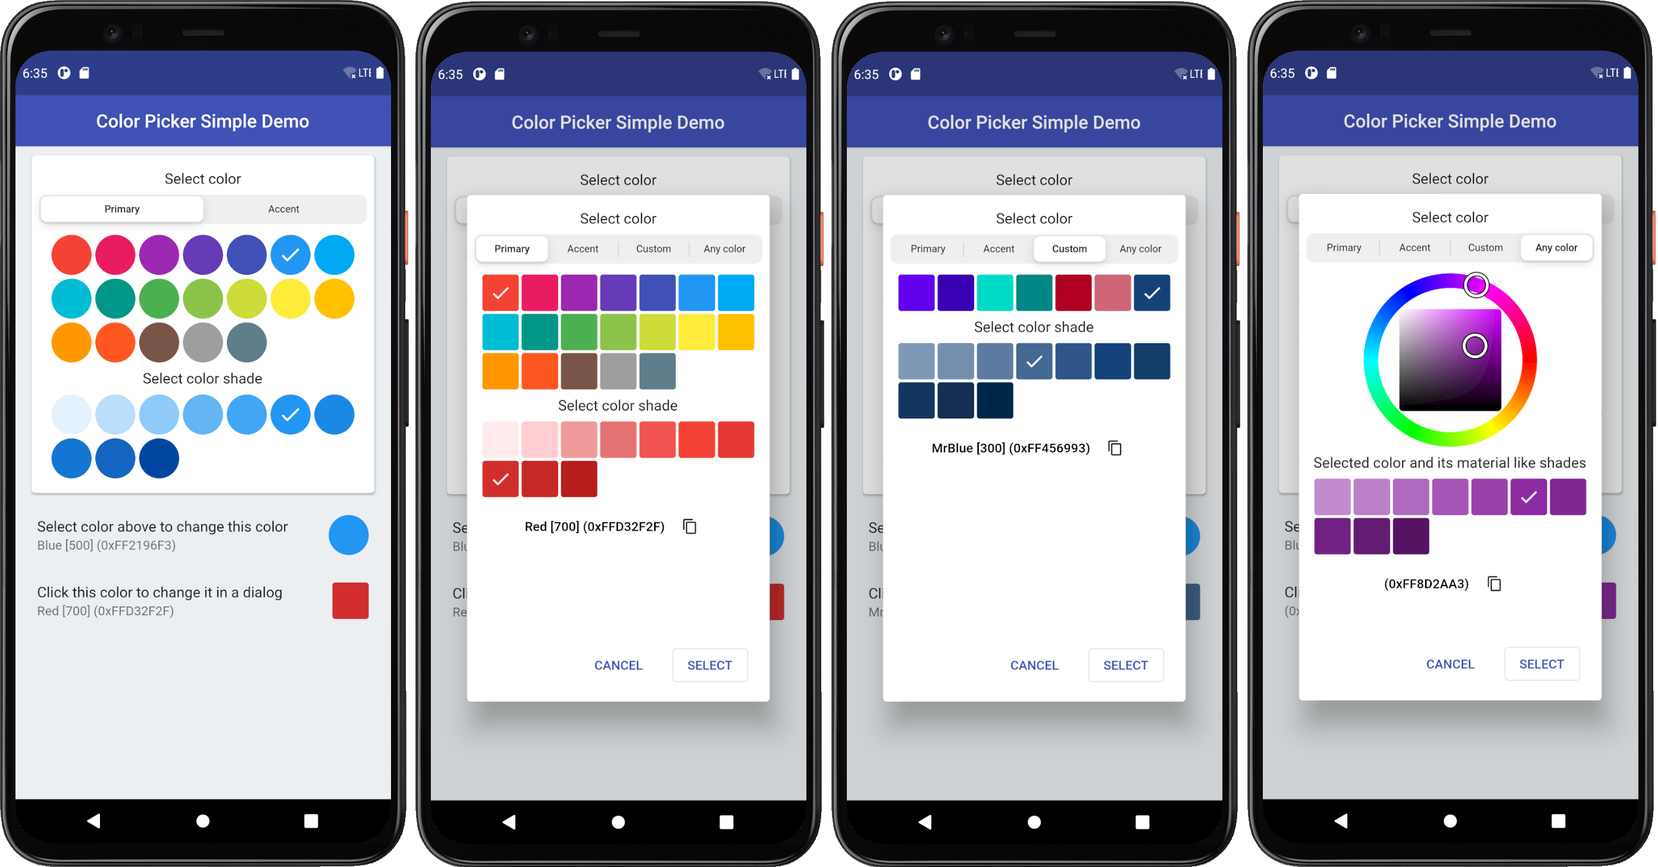
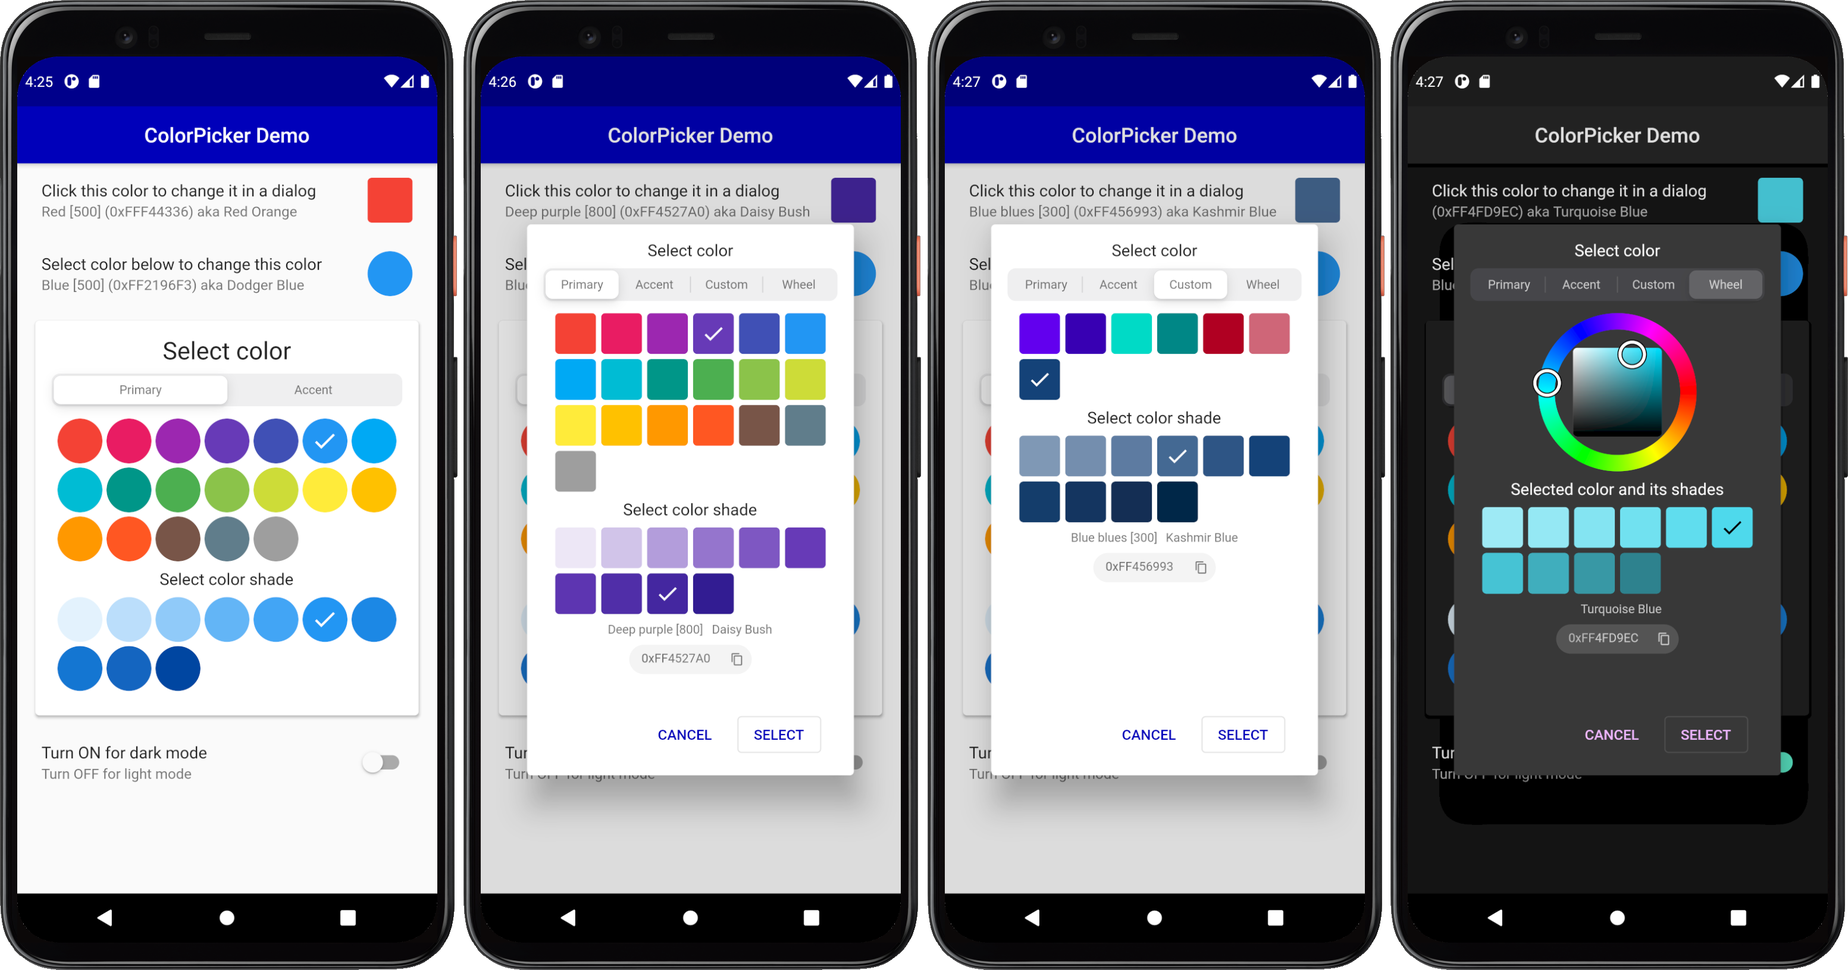
Updates the example, documentation and screen shots.

diff --git a/example/lib/main.dart b/example/lib/main.dart
@@ -64,7 +64,7 @@ class _ColorPickerPageState extends State<ColorPickerPage> {
   static const Color guideErrorDark = Color(0xFFCF6679);
   static const Color blueBlues = Color(0xFF174378);
 
-  // Make a custom color swatch to name map from the above custom colors.
+  // Make a custom ColorSwatch to name map from the above custom colors.
   final Map<ColorSwatch<Object>, String> colorsNameMap =
       <ColorSwatch<Object>, String>{
     ColorTools.createPrimarySwatch(guidePrimary): 'Guide Purple',
@@ -97,6 +97,44 @@ class _ColorPickerPageState extends State<ColorPickerPage> {
           child: Column(
             crossAxisAlignment: CrossAxisAlignment.start,
             children: <Widget>[
+              // Pick color in a dialog.
+              ListTile(
+                title: const Text('Click this color to change it in a dialog'),
+                subtitle: Text(
+                  '${ColorTools.materialNameAndCode(dialogPickerColor, colorSwatchNameMap: colorsNameMap)} '
+                  'aka ${ColorTools.nameThatColor(dialogPickerColor)}',
+                ),
+                trailing: ColorIndicator(
+                  width: 44,
+                  height: 44,
+                  borderRadius: 4,
+                  color: dialogPickerColor,
+                  onSelect: () async {
+                    final Color colorBeforeDialog = dialogPickerColor;
+                    if (!(await colorPickerDialog())) {
+                      setState(() {
+                        dialogPickerColor = colorBeforeDialog;
+                      });
+                    }
+                  },
+                ),
+              ),
+
+              // Show the selected color.
+              ListTile(
+                title: const Text('Select color below to change this color'),
+                subtitle:
+                    Text('${ColorTools.materialNameAndCode(screenPickerColor)} '
+                        'aka ${ColorTools.nameThatColor(screenPickerColor)}'),
+                trailing: ColorIndicator(
+                  width: 44,
+                  height: 44,
+                  borderRadius: 22,
+                  color: screenPickerColor,
+                ),
+              ),
+
+              // Show the color picker in sized box in a raised card.
               SizedBox(
                 width: double.infinity,
                 child: Padding(
@@ -120,43 +158,6 @@ class _ColorPickerPageState extends State<ColorPickerPage> {
                       ),
                     ),
                   ),
-                ),
-              ),
-
-              // Show the selected color.
-              ListTile(
-                title: const Text('Select color above to change this color'),
-                subtitle:
-                    Text('${ColorTools.materialNameAndCode(screenPickerColor)} '
-                        'aka ${ColorTools.nameThatColor(screenPickerColor)}'),
-                trailing: ColorIndicator(
-                  width: 44,
-                  height: 44,
-                  borderRadius: 22,
-                  color: screenPickerColor,
-                ),
-              ),
-
-              // Pick color in a dialog.
-              ListTile(
-                title: const Text('Click this color to change it in a dialog'),
-                subtitle: Text(
-                  '${ColorTools.materialNameAndCode(dialogPickerColor, colorSwatchNameMap: colorsNameMap)} '
-                  'aka ${ColorTools.nameThatColor(dialogPickerColor)}',
-                ),
-                trailing: ColorIndicator(
-                  width: 44,
-                  height: 44,
-                  borderRadius: 4,
-                  color: dialogPickerColor,
-                  onSelect: () async {
-                    final Color colorBeforeDialog = dialogPickerColor;
-                    if (!(await colorPickerDialog())) {
-                      setState(() {
-                        dialogPickerColor = colorBeforeDialog;
-                      });
-                    }
-                  },
                 ),
               ),
 
@@ -187,9 +188,9 @@ class _ColorPickerPageState extends State<ColorPickerPage> {
       width: 40,
       height: 40,
       borderRadius: 4,
-      spacing: 6,
-      runSpacing: 6,
-      wheelDiameter: 160,
+      spacing: 5,
+      runSpacing: 5,
+      wheelDiameter: 155,
       heading: Text(
         'Select color',
         style: Theme.of(context).textTheme.subtitle1,
@@ -199,7 +200,7 @@ class _ColorPickerPageState extends State<ColorPickerPage> {
         style: Theme.of(context).textTheme.subtitle1,
       ),
       wheelSubheading: Text(
-        'Selected color and its material like shades',
+        'Selected color and its shades',
         style: Theme.of(context).textTheme.subtitle1,
       ),
       showMaterialName: true,
@@ -220,7 +221,7 @@ class _ColorPickerPageState extends State<ColorPickerPage> {
     ).showPickerDialog(
       context,
       constraints:
-          const BoxConstraints(minHeight: 450, minWidth: 400, maxWidth: 400),
+          const BoxConstraints(minHeight: 460, minWidth: 300, maxWidth: 320),
     );
   }
 }

diff --git a/test/flex_color_indicator_test.dart b/test/flex_color_indicator_test.dart
@@ -1,0 +1,5 @@
+import 'package:flutter/material.dart';
+import 'package:test/test.dart';
+import 'package:flex_color_picker/flex_color_picker.dart';
+
+void main() {}

diff --git a/README.md b/README.md
@@ -15,7 +15,7 @@ Flex ColorPicker is a customizable color picker for Flutter. The `ColorPicker` c
 
 When you show more than one color picker, a segmented sliding control allows you to select which one to use. You can configure the `ColorPicker` to include any of the above color pickers. Showing pickers 1 and 2, together with picker 3 is not very useful, they are available as optional ways of showing and selecting the standard Material primary and accent colors.
 
-Give the color picker a heading and a subheading for the color shades, typically Text widgets with appropriate style. Decide if the Material shades can be selected or not and if the selected color names and values are visible in the picker. If the color HEX RGB code is visible, the picker includes a button that allows you to copy the selected color code to the clipboard.
+Give the `ColorPicker` a heading and a subheading for the color shades, typically Text widgets with appropriate style. Decide if the Material shades can be selected or not and if the selected color names and code are visible in the picker. If the color HEX RGB code is visible, the picker also includes a button that allows you to copy the selected color's code to the clipboard. On the wheel picker you can also enter a HEX RGB for the color to be selected.
 
 The shape, size and spacing of the color picker items can be modified. There is a built-in dialog that can be used to show and use the `ColorPicker` in a pre-made dialog. You can of course also make your own dialog and just use the color picker widget in your custom dialog.
 
@@ -73,7 +73,7 @@ void initState() {
 }
 ```
 
-Add the `ColorPicker` to the build method, could for example be in a `ListView` or `Column`. Give it the defined starting color, a `heading` and `subHeading`, plus the required `onColorChanged` callback function. Use the color from the callback in a `setState()` to modify the `screenPickerColor` to the color value returned by the callback. The callback in the ColorPicker is called whenever you select a new color in the `ColorPicker`.
+Add the `ColorPicker` to the build method, could for example be in a `ListView` or `Column`. Give it the defined starting color, a `heading` and `subHeading`, plus the required `onColorChanged` callback function. Use the color from the callback in a `setState()` to modify the `screenPickerColor` to the color  returned by the callback. The callback in the ColorPicker is called whenever you select a new color in the `ColorPicker`.
 
 ```dart
 ColorPicker(
@@ -109,7 +109,7 @@ ColorPicker(
 ),
 ```
 
-You can use same the `ColorIndicator` Widget that the `ColorPicker` uses internally as a color indicator. Here we use it in a `ListTile` as its trailing property to show the selected color. The `ColorPicker` also includes `ColorTools`, a set of static helper functions, that you can use to display names of the standard material colors, and their shade index value, as well as an optional Flutter style Hex color code. Below we use `ColorTools.materialNameAndCode` in a `ListTile` `subtitle` property to describe the selected color. We show its Material color name and index and Flutter style HEX code. We also use `ColorTools.nameThatColor` function, that will name any provided color based on the closest matching color from a list consisting of 1566 named colors.
+You can use same the `ColorIndicator` Widget that the `ColorPicker` uses internally as a color indicator. Here we use it in a `ListTile`, that we add above the `ColorPicker` and use the `ColorIndicator` as its trailing property to show the selected color. The `ColorPicker` also includes `ColorTools`, a set of helper functions, that you can use to display names of the standard material colors, and their shade index value, as well as an optional Flutter style Hex color code. Below we use `ColorTools.materialNameAndCode` in a `ListTile` `subtitle` property to describe the selected color. We show its Material color name and index and Flutter style HEX code. We also use `ColorTools.nameThatColor` function, that will name any color based on the closest matching color from a list consisting of 1566 colors and names.
 
 ```dart
 ListTile(
@@ -131,11 +131,11 @@ This gives us round color pick items and an indicator for the selected color:
 
 ## ColorPicker as a Dialog
 
-A common use case for a color picker is to show a color selection widget and allow the user to select a new color in a dialog. The `ColorPicker` comes with a built-in dialog that can be used for this. Alternatively you can use the `ColorPicker` widget to build your own dialog based on it.
+A common use case for a color picker is to show a color selection widget and allow users to select a new color in a dialog. The `ColorPicker` comes with a built-in dialog that can be used for this. Alternatively you can just use the `ColorPicker` widget and include it in your own dialog.
 
-For the dialog example we will show all the built in picker color selection options, except the combined primary and accent colors picker, and the black and white shades' picker. We add some custom colors for the **Custom** colors section of the `ColorPicker`.
+For the dialog example we will show all the built in picker color selection options, except the combined primary and accent colors picker, and the black and white shades' picker. We will also add some custom colors for the **Custom** colors section of the `ColorPicker`.
 
-First we define our custom colors and from our single color definitions we create primary and accent color swatches, by using `ColorTools.createPrimarySwatch` or `ColorTools.createAccentSwatch` for accent color swatches. We add these color swatches to a `ColorSwatch` Map, that we map to our own custom names for our custom color swatches. You don't have to use the `ColorTools` to create the color swatches from a given single color, you can just as well define and use your own custom hand tuned `ColorSwatch` swatches. The functions are convenient helpers that can make Material like color swatches from a single color.
+First we define our custom colors and from our color definitions we create primary and accent color swatches by using `ColorTools.createPrimarySwatch` or `ColorTools.createAccentSwatch` for accent color swatches. We add these color swatches as keys to a `ColorSwatch` `Map`, that we map to our own custom `String` name values for our custom color swatches. You don't have to use the `ColorTools` functions to create the color swatches from a color, you can just as well define and use your own custom hand tuned `ColorSwatch` swatches. The functions are just convenient helpers that can be used to make Material like color swatches from a single color.
 
 ```dart
   // Define custom colors. The 'guide' color values are from
@@ -148,7 +148,7 @@ First we define our custom colors and from our single color definitions we creat
   static const Color guideErrorDark = Color(0xFFCF6679);
   static const Color blueBlues = Color(0xFF174378);
 
-  // Make a custom color swatch to name map from the above custom colors.
+  // Make a custom ColorSwatch to name map from the above custom colors.
   final Map<ColorSwatch<Object>, String> colorsNameMap =
       <ColorSwatch<Object>, String>{
     ColorTools.createPrimarySwatch(guidePrimary): 'Guide Purple',
@@ -176,7 +176,7 @@ void initState() {
 }
 ```
 
-We use another `ListTile` to display a `ColorIndicator`, that we style a bit differently for this example. We also use its `onSelect` callback to open a dialog with another `ColorPicker`. Before we open the dialog we store the current `dialogPickerColor`'s color value. This way we can restore this color value if the user cancels the dialog.
+We use another `ListTile` to display a `ColorIndicator`, that we style a bit differently for this example. We also use its `onSelect` callback to open a dialog with another `ColorPicker`. Before we open the dialog we store the current `dialogPickerColor`'s color value. This way we can restore this color value if the user cancels the dialog. Put this ListTile before the previous one, first in the /column or list view, this will just ensure that it does not get hidden by the dialog on most phones.
 
 ```dart
   ListTile(
@@ -202,9 +202,11 @@ We use another `ListTile` to display a `ColorIndicator`, that we style a bit dif
   ),
 ```
 
-Create a method to show the dialog. The `colorPickerDialog` is an asynchronous bool function, that returns `true` if the user closed the dialog picker with the **Select** button. If **Cancel** was selected or user dismissed the dialog by clicking outside of it, `false` is returned.
+Create a method to show a `ColorPicker` with the built-in dialog. The `colorPickerDialog` is an asynchronous bool function, that returns `true` if the user closed the dialog picker with the **Select** button. If **Cancel** was selected or user dismissed the dialog by clicking outside of it, `false` is returned.
 
-The `pickerEnabled` takes a map with `ColorPickerType` enum keys to boolean values. The map defines which color pickers we want to enable and use in the `ColorPicker`. In the example below we included Material primary, accent colors, and the custom colors, plus the HSV color wheel that allows us to select any color. We did not include the picker that combines the primary and accent colors in the same picker, nor the black and white picker.
+The `pickersEnabled` takes a map with `ColorPickerType` enum keys to boolean values. The map defines which color pickers we want to enable and use in the `ColorPicker`. In the example below we included Material primary, accent colors, and the custom colors we defined, plus the HSV color wheel that allows us to select any color. We did not include the picker that combines the primary and accent colors in the same picker, nor the near black and white color picker.
+
+In the example below the custom colors we defined in `colorsNameMap` are given to the color picker's constructor property `customColorSwatchesAndNames`. If you leave `customColorSwatchesAndNames` without an entry and happen to have `ColorPickerType.custom: true` enabled, the custom picker will still not be shown, both are required for the custom color swatches to show up.
 
 
 ```dart
@@ -216,9 +218,9 @@ The `pickerEnabled` takes a map with `ColorPickerType` enum keys to boolean valu
       width: 40,
       height: 40,
       borderRadius: 4,
-      spacing: 6,
-      runSpacing: 6,
-      wheelDiameter: 160,
+      spacing: 5,
+      runSpacing: 5,
+      wheelDiameter: 155,
       heading: Text(
         'Select color',
         style: Theme.of(context).textTheme.subtitle1,
@@ -227,8 +229,8 @@ The `pickerEnabled` takes a map with `ColorPickerType` enum keys to boolean valu
         'Select color shade',
         style: Theme.of(context).textTheme.subtitle1,
       ),
-      subWheelHeading: Text(
-        'Selected color and its material like shades',
+      wheelSubheading: Text(
+        'Selected color and its shades',
         style: Theme.of(context).textTheme.subtitle1,
       ),
       showMaterialName: true,
@@ -249,20 +251,20 @@ The `pickerEnabled` takes a map with `ColorPickerType` enum keys to boolean valu
     ).showPickerDialog(
       context,
       constraints:
-          const BoxConstraints(minHeight: 450, minWidth: 400, maxWidth: 400),
+          const BoxConstraints(minHeight: 460, minWidth: 300, maxWidth: 320),
     );
   }
 ```
 
-The above example uses a few more styling properties, to make it more compact and to show the general color name as well as the HEX color code of the selected color in the dialog. With the color code indicator you can also copy the color code with the copy icon button. When the wheel picker is active you can enter RGB hex color, the wheel color indicators will then move to the color selection matching the entered HEX code.
+The above example uses a few more styling properties, to make it more compact and to show the general color name as well as the HEX color code of the selected color in the dialog. With the color code indicator you can also copy the color code with the copy icon button. When the wheel picker is active you can enter a RGB hex color, the two wheel color HSV selection indicators will then move to the color selection matching the entered HEX RGB value.
 
-Most importantly the above example uses the `showPickerDialog` method to show the defined `ColorPicker` in a pre-made dialog. The dialog needs a context, so we pass it along to it.
+Most importantly the above example uses the `showPickerDialog` method to show the defined `ColorPicker` in a pre-made dialog. The dialog also needs a context, so we just pass it along to it.
 
-We also define size constraints for the dialog. If you do not define size constraints, it will auto size to fit the dialog content. Using constraints allows the dialog to keep the same size when the content size changes slightly as you switch between the different color selection tools you enabled. It looks better if the dialog size does not change when you switch picker type with the selector. The color wheel picker in particular will often require a bit more space. The wheel size can be customized as well, it does however become more difficult to operate if it is made very small. In this example it is on purposes of the lower side of still usable size.
+In this example we also define size constraints for the dialog. If you do not define size constraints, it will auto size to fit the dialog content. Using constraints allows the dialog to keep the same size when the content size changes slightly as you switch between the different color selection tools you enabled. It looks better if the dialog size does not change when you switch picker type with the selector. The color wheel picker in particular will often require a bit more space. The wheel size can be customized as well, it does however become more difficult to operate it, if it is made very small. In this example it is on purposes on the lower side of still usable size.
 
 The end result of the above setup is a `ListTile` where the trailing color indicator widget can be clicked to open a dialog to select a new color for the trailing `ColorIndicator` color.
 
-As the `dialogPickerColor` color changes in the dialog, the `ColorIndicator`'s color also changes interactively. If the selection is cancelled, the `ColorIndicator`'s original color is restored.
+As the `dialogPickerColor` color changes in the dialog, the `ColorIndicator`'s color also changes via this interaction. If the dialog is cancelled, the `ColorIndicator`'s original color is restored.
 
 <img src="https://github.com/rydmike/flex_color_picker/blob/master/resources/ColorPickerSimpleDemo.gif?raw=true" alt="ColorPicker dialog demo" width="300"/>
 
@@ -281,7 +283,7 @@ appBar: AppBar(
 
 As can be seen below, now the selected color in the dialog changes the `AppBar`'s color as you select color in the dialog and cancelling it restores the `AppBar`'s color as well, **pretty cool!**
 
-You can connect the color to theme colors and modify your application's theme color values interactively as well, but that goes beyond the scope of this example.
+You can connect the color picking interaction to theme colors and modify your application's theme color values interactively as well, but that goes beyond the scope of this example.
 
 <img src="https://github.com/rydmike/flex_color_picker/blob/master/resources/ColorPickerSimpleDemoAppBar.gif?raw=true" alt="ColorPicker appbar demo" width="300"/>
 
@@ -295,7 +297,7 @@ Flex ColorPicker works on all Flutter platforms, Android, iOS, Web, Windows, Mac
 
 The above introduction was a walk through of the bundled example, please see the [example section](https://pub.dev/packages/flex_color_picker/example) for the complete source code.
 
-There are more configuration options available for the `ColorPicker`, use the [API reference guide](https://pub.dev/documentation/flex_color_picker/latest/flex_color_picker/flex_color_picker-library.html) for additional information.
+There are a few more configuration options available for the `ColorPicker`, use the [API reference guide](https://pub.dev/documentation/flex_color_picker/latest/flex_color_picker/flex_color_picker-library.html) for additional information.
 
 You can also try the more complete [live web example](https://rydmike.com/democolorpicker/) and study its [source code here](https://github.com/rydmike/color_picker_demo).
 

diff --git a/CHANGELOG.md b/CHANGELOG.md
@@ -1,6 +1,10 @@
 # Changelog
 
-All notable changes to the **ColorPicker** will be documented in this file.
+All notable changes to the Flex **ColorPicker** will be documented in this file.
+
+## [1.1.1] - November 11, 2020
+* Updated the example app and documentation. The update includes updated screen shots and updated animated gifs.
+* Unit tests for ColorTools added, widget tests still pending for later updates.
 
 ## [1.1.0] - November 6, 2020
 * New API: Added `showColorValue` to optionally display the int value of the selected color. This can be used to assist developers when they need to see or copy selected color values as int numbers.
@@ -12,7 +16,7 @@ All notable changes to the **ColorPicker** will be documented in this file.
 * First official release.
 * Example and documentation updated.
 * Updated the live Web demo version to use the released package.
-* New API: Added `shouldUpdate` to the color wheel picker, as a fix for an issue where black selection changed hue to red. This is a lower level API that is not needed unless you make your own picker for scratch and you want to use the wheel picker in your picker.
+* New API: Added `shouldUpdate` to the color wheel picker, as a fix for an issue where black selection changed hue to red. This is a lower level API that is not needed unless you make your own picker from scratch, and you want to use the wheel picker in your own picker.
 * Final API name tweaks before version 1.0.0 release:
 * Renamed: API `createPrimaryColor` -> `createPrimarySwatch`
 * Renamed: API `createAccentColor` -> `createAccentSwatch`
@@ -44,6 +48,8 @@ All notable changes to the **ColorPicker** will be documented in this file.
 
 * First development pre-release on pub.dev.
 
+---
+
 ## To do list and planned feature updates
 
 - [x] Review and update the API.
@@ -53,8 +59,8 @@ All notable changes to the **ColorPicker** will be documented in this file.
 - [x] Add "name that color" function that can give a name to "any" color in English.
 - [x] Release version 1.0.0.
 - [x] Publish version 1.0.0 on pub.dev.
-- [ ] Version 1.1.x: Add first set of tests for the ColorPicker and its supporting classes.
-- [ ] Version 1.1.y: Finalize the tests.
+- [x] Version 1.1.1: Add first set of tests for the ColorPicker, so far only unit tests for ColorTools, more tests will be added later.
+- [ ] Version 1.1.x: Finalize tests.
 - [ ] Maybe version 2.0.x: Add more color picker types.
 - [ ] Maybe version 2.x.x: Add a color selected with the wheel color selector to the custom colors section.
 - [ ] Maybe version 2.x.x: Store colors added to the custom colors section.
